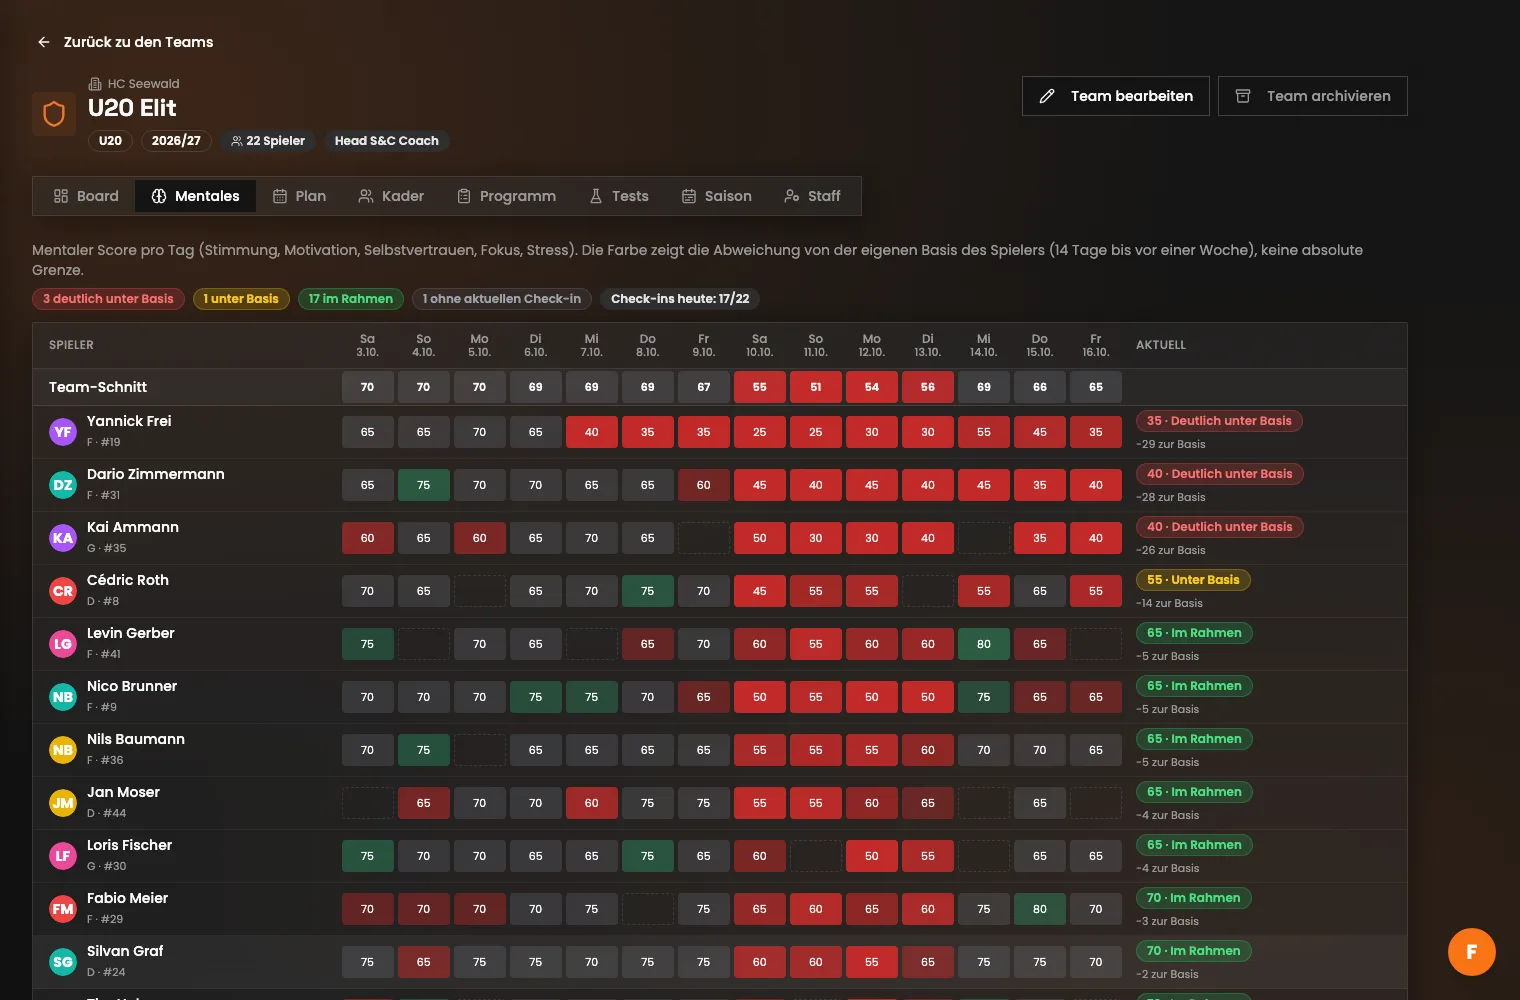
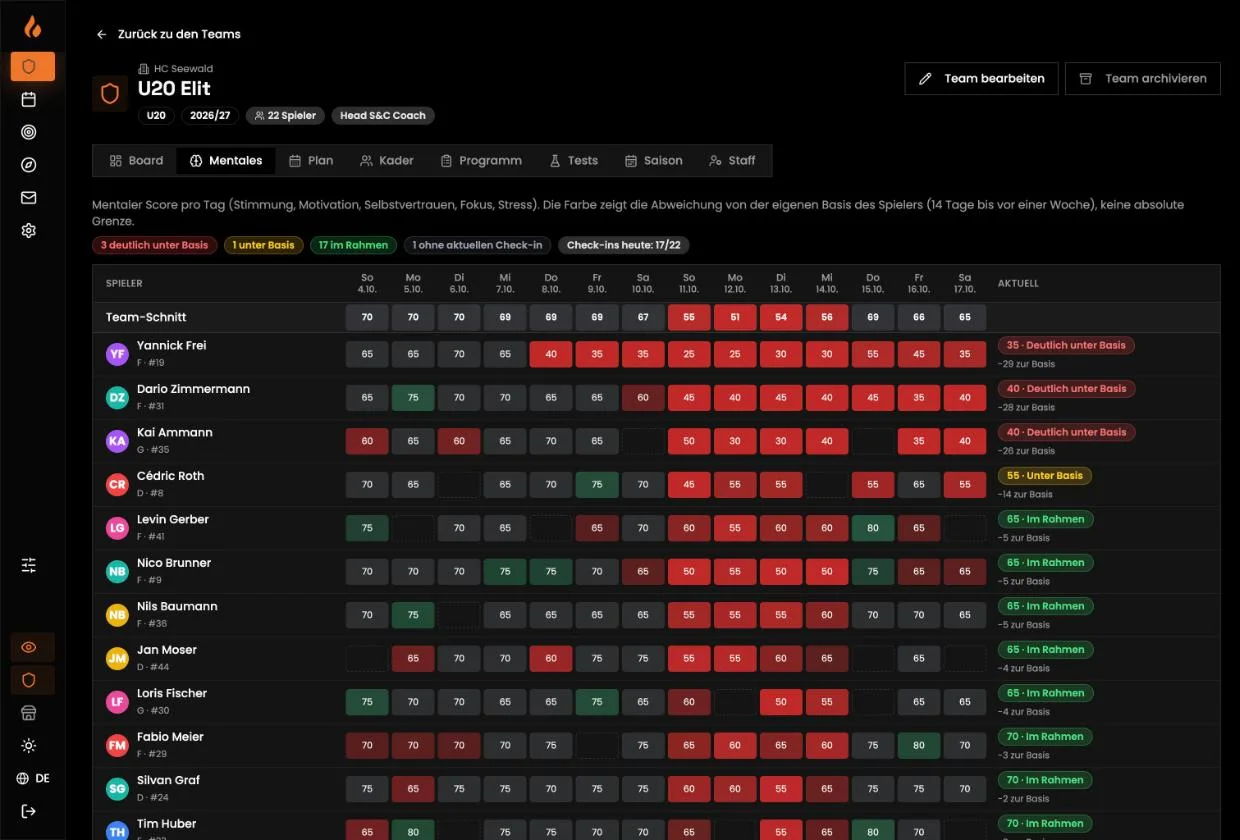
feat(praesentation): alle Screens im neuen Coach-Web-Design, Deutsch, ohne RPE
Die Folien zeigten das Design vor dem Branding-Commit 464df990. Neu
aufgenommen aus dem Team-Demo auf app.prometheus.coach; die Flamme im
Hintergrund ist für die Aufnahme ausgeblendet, Profilfoto und
Hilfe-Knopf auch. Kraftraum und Verletzungen so zugeschnitten, dass kein
RPE im Bild steht.

diff --git a/TESTING.md b/TESTING.md
@@ -21,6 +21,8 @@ Testkonten `qa-<vorname>+coach@…`, alles Angelegte mit Präfix `[QA]`.
   ein Klick schliesst ihn (am Beamer bei den Folien mit zwei Screens prüfen).
   VBT hat zwei Folien (Kamera statt Gerät; Schnellkraft mit Zonen-Leiste),
   die Schweiz-Folie heisst „Aus Zürich, nicht aus Übersee".
+  Alle Screens neu im aktuellen Design (schwarz, ohne Flammen-Wasserzeichen,
+  das nur für die Aufnahme ausgeblendet ist), Deutsch, ohne RPE im Bild.
   Seitenquelltext enthält den Clubnamen nicht; `robots.txt` sperrt den Pfad.
 - [ ] **Schweiz-Seite `/schweiz/` (öffentlich) + `/club/` für Anas (2026-10-16)**
   (live, iPhone Safari + Chrome Desktop): `prometheus.coach/schweiz/` öffnet mit
